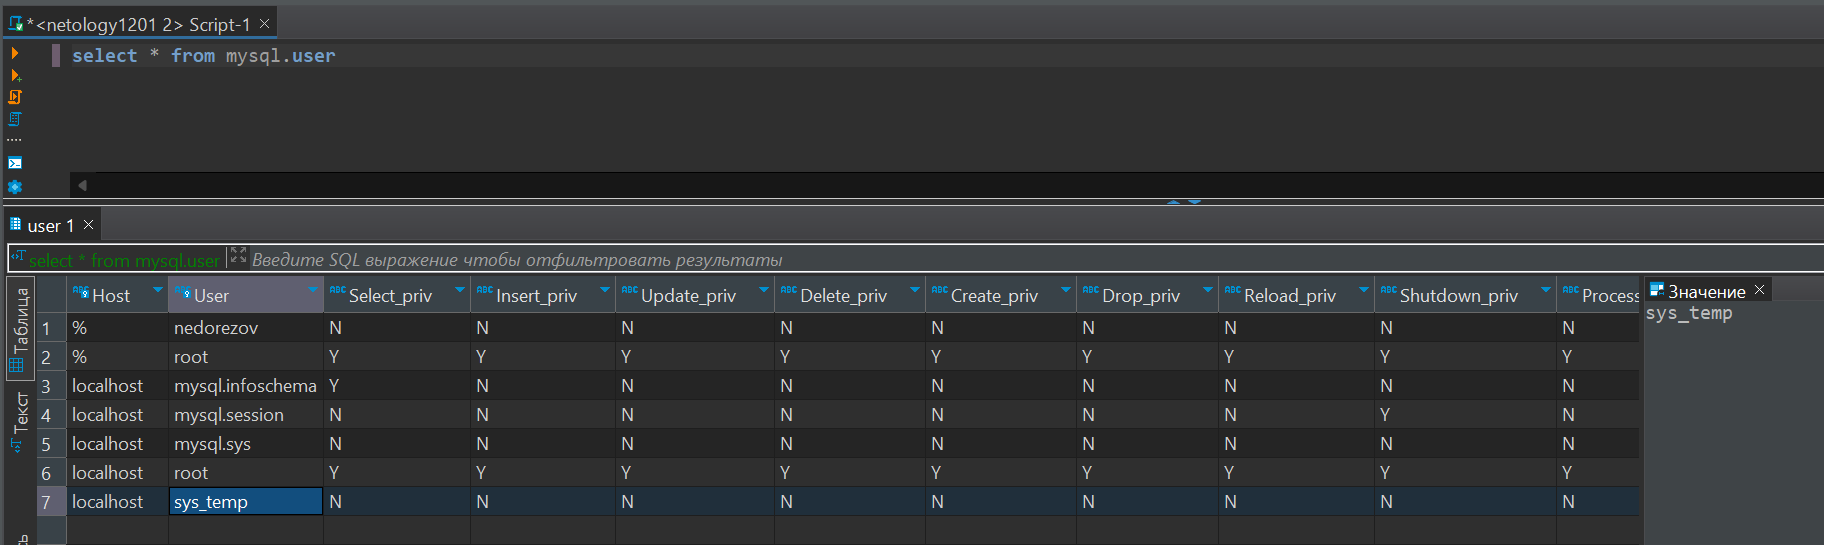
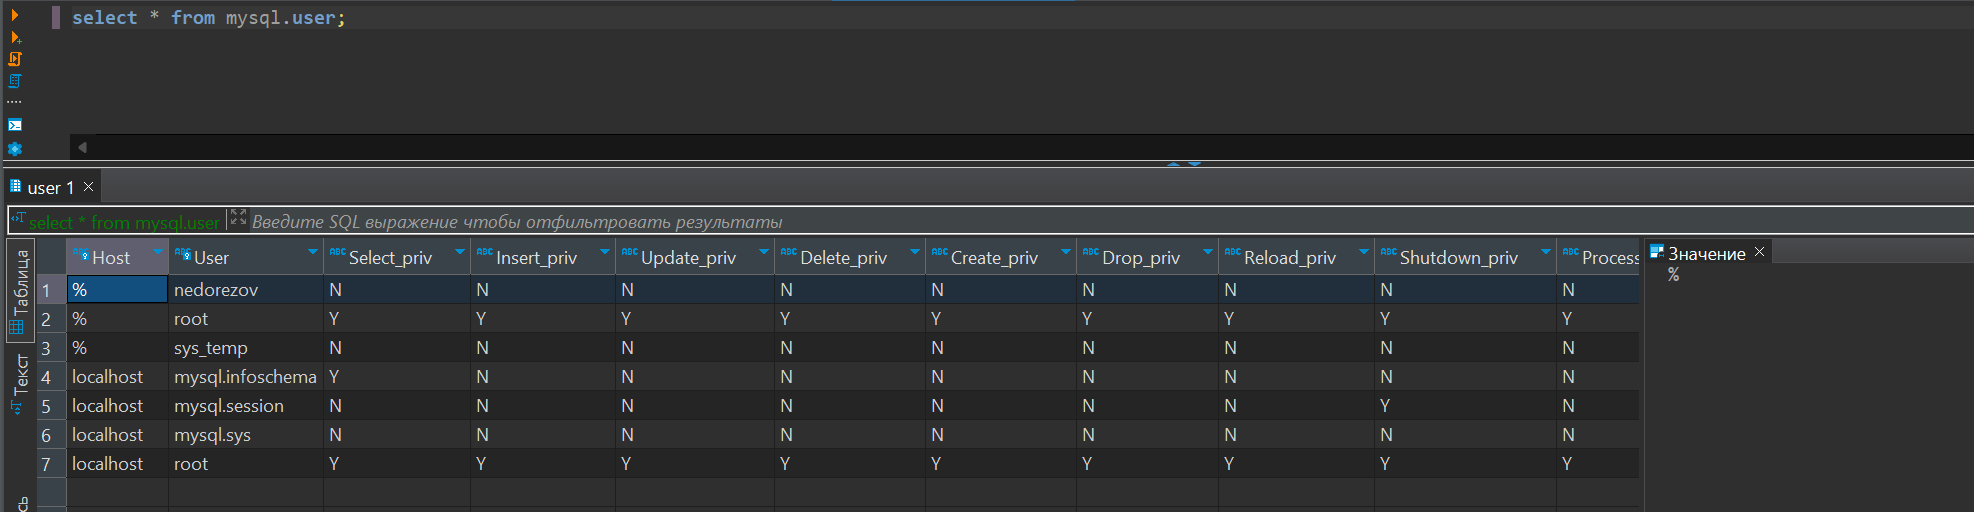
done

diff --git a/README.md b/README.md
@@ -4,40 +4,43 @@
 
 ### Задание 1
 1.1. Поднимите чистый инстанс MySQL версии 8.0+. Можно использовать локальный сервер или контейнер Docker.  
-> [Vagrantfile](https://github.com/smutosey/12-01-databases/blob/main/vagrant/Vagrantfile) + [config.sh](https://github.com/smutosey/12-02-ddl-dml/blob/main/vagrant/config.sh) для создания ВМ, установки Docker и запуска MySQL в контейнере  
+> [Vagrantfile](https://github.com/smutosey/12-02-ddl-dml/blob/main/vagrant/Vagrantfile) + [config.sh](https://github.com/smutosey/12-02-ddl-dml/blob/main/vagrant/config.sh) для создания ВМ, установки Docker и запуска MySQL в контейнере  
 > [docker-compose.yml](https://github.com/smutosey/12-02-ddl-dml/blob/main/docker-compose.yml) - инструкции для запуска MySQL и инициализации БД   
 
 1.2. Создайте учётную запись sys_temp. 
 > ```sql
-> CREATE USER 'sys_temp'@'localhost' IDENTIFIED BY 'password';
+> CREATE USER 'sys_temp'@'%' IDENTIFIED BY 'password';
 > ```  
 
 1.3. Выполните запрос на получение списка пользователей в базе данных. (скриншот)
 > ```sql
 > select * from mysql.user;
 > ```  
-> ![img](https://github.com/smutosey/12-01-databases/blob/main/img/1-03.png)  
+> ![img](https://github.com/smutosey/12-02-ddl-dml/blob/main/img/1-03.png)  
 
 1.4. Дайте все права для пользователя sys_temp.   
 > ```sql
-> grant all privileges on *.* to 'sys_temp'@'localhost';
+> grant all privileges on *.* to 'sys_temp'@'%';
 > ``` 
 
 1.5. Выполните запрос на получение списка прав для пользователя sys_temp. (скриншот)  
+> ```sql
+> show grants for 'sys_temp'@'%';
+> ``` 
+> ![img](https://github.com/smutosey/12-02-ddl-dml/blob/main/img/1-05.png)  
 
-> ![img](https://github.com/smutosey/12-01-databases/blob/main/img/1-05.png)  
+1.6. Переподключитесь к базе данных от имени sys_temp.  
+> ![img](https://github.com/smutosey/12-02-ddl-dml/blob/main/img/1-06.png)  
 
-1.6. Переподключитесь к базе данных от имени sys_temp.
+1.7. По ссылке https://downloads.mysql.com/docs/sakila-db.zip скачайте дамп базы данных.  
 
-Для смены типа аутентификации с sha2 используйте запрос: 
-```sql
-ALTER USER 'sys_test'@'localhost' IDENTIFIED WITH mysql_native_password BY 'password';
-```
-1.6. По ссылке https://downloads.mysql.com/docs/sakila-db.zip скачайте дамп базы данных.
+1.8. Восстановите дамп в базу данных.
+> ![img](https://github.com/smutosey/12-02-ddl-dml/blob/main/img/1-08.png)  
 
-1.7. Восстановите дамп в базу данных.
+1.9. При работе в IDE сформируйте ER-диаграмму получившейся базы данных. При работе в командной строке используйте команду для получения всех таблиц базы данных. (скриншот)  
+> ![img](https://github.com/smutosey/12-02-ddl-dml/blob/main/img/1-09.png)  
+> ![img](https://github.com/smutosey/12-02-ddl-dml/blob/main/img/1-09-2.png)  
 
-1.8. При работе в IDE сформируйте ER-диаграмму получившейся базы данных. При работе в командной строке используйте команду для получения всех таблиц базы данных. (скриншот)
 
 *Результатом работы должны быть скриншоты обозначенных заданий, а также простыня со всеми запросами.*
 
@@ -48,6 +51,32 @@ ALTER USER 'sys_test'@'localhost' IDENTIFIED WITH mysql_native_password BY 'pass
 Название таблицы | Название первичного ключа
 customer         | customer_id
 ```
+> #### Ответ
+> Сделал это скриптом SQL:  
+> ```sql
+> select
+> 	tables.table_name as "Название таблицы",
+> 	stats.column_name as "Название первичного ключа"
+> from
+> 	information_schema.tables as tables
+> join information_schema.statistics as stats
+>         on
+> 	stats.table_schema = tables.table_schema
+> 	and stats.table_name = tables.table_name
+> 	and stats.index_name = 'primary'
+> where
+> 	tables.table_schema = 'sakila'
+> 	and tables.table_type = 'BASE TABLE'
+> order by
+> 	tables.table_name
+> ```   
+> 
+> Скриншот:  
+> ![img](https://github.com/smutosey/12-02-ddl-dml/blob/main/img/2-01.png) 
+>   
+> Полученная таблица, выгруженная из IDE DBeaver: [туть](https://github.com/smutosey/12-02-databases/blob/main/nedorezov_202303121953-1678625633403.csv) 
+
+
 
 
 ## Дополнительные задания (со звёздочкой*)
@@ -59,3 +88,15 @@ customer         | customer_id
 3.2. Выполните запрос на получение списка прав для пользователя sys_temp. (скриншот)
 
 *Результатом работы должны быть скриншоты обозначенных заданий, а также простыня со всеми запросами.*
+
+> В MySQL DCL отсутствует оператор DENY, и т.к. ранее выдавали ему полный доступ, то выполняем следующее:
+> 1. Отзываем полный доступ 
+> ```sql
+> revoke all privileges on *.* from 'sys_temp'@'%';  --отзываем полный доступ
+> grant all privileges on sys.* to 'sys_temp'@'%'; --полный доступ к БД sys
+> grant all privileges on sakila.* to 'sys_temp'@'%'; --полный доступ к БД sakila  (пока что)
+> revoke INSERT, UPDATE, DELETE on sakila.* from 'sys_temp'@'%' --отзываем доступ к внесению, изменению и удалению данных в БД sakila
+> ``` 
+> Результат выполнения и список прав:
+> ![img](https://github.com/smutosey/12-02-ddl-dml/blob/main/img/3-01.png)  
+> Видно, что нет доступа на INSERT, UPDATE, DELETE в sakila 
